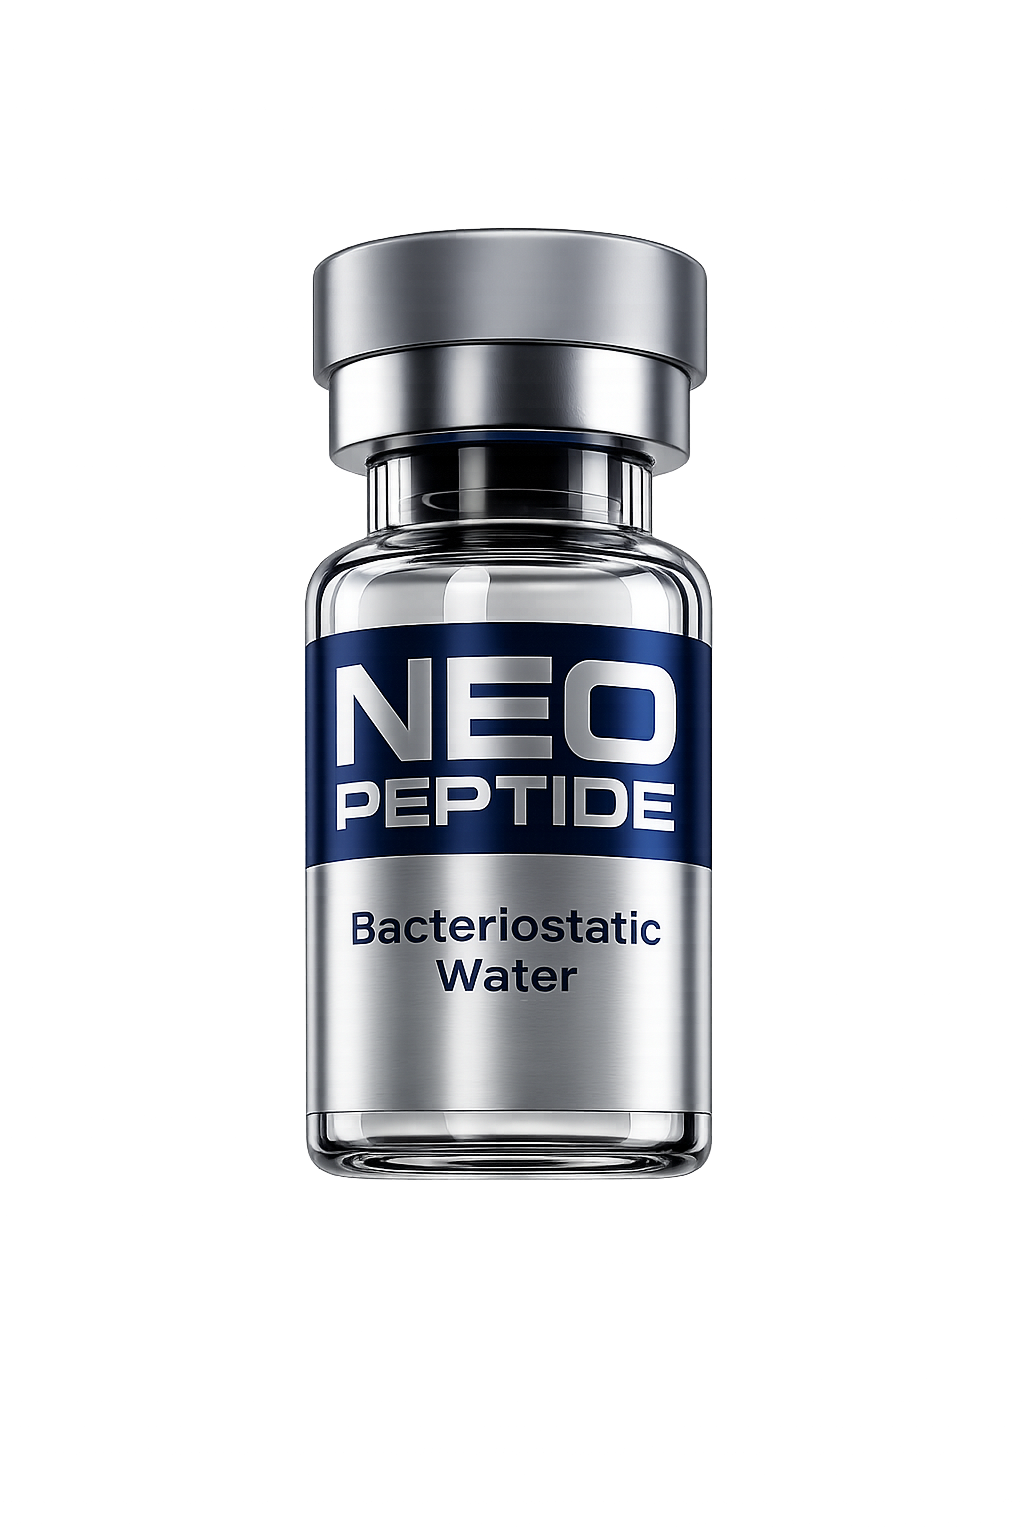
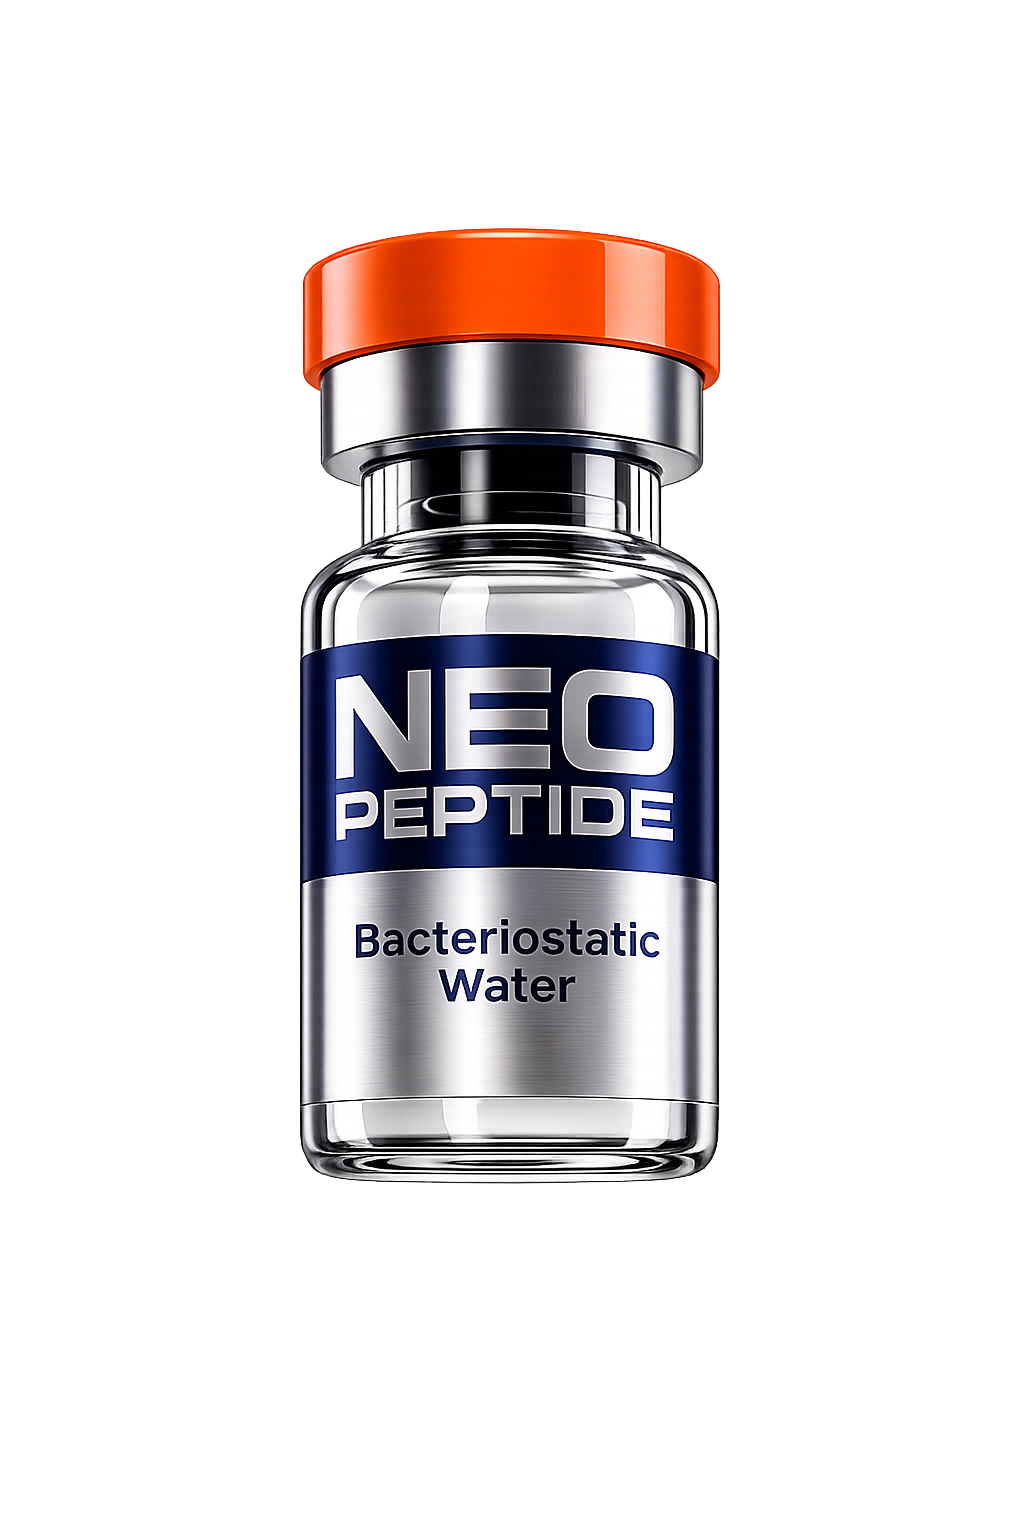
Add Sexual Wellness section, update colors, and add new products
- Darken Hormone/GH red gradient
- Change Essentials from gray to orange
- Add new Sexual Wellness / Libido section (PT-141, $59)
- Add Pinealon 10mg ($50) and Semax 10mg ($59) to Neuro/Mood
- Replace Bacteriostatic Water image with transparent background version
- Add PT-141, Pinealon, Semax bottle images
- Reflect all changes in catalog.html

Changed region(s): [[0.2812, 0.125, 0.7188, 0.7812]]

diff --git a/index.html b/index.html
@@ -117,11 +117,12 @@
     .prog-card:hover{transform:translateY(-5px);box-shadow:0 32px 72px rgba(0,0,0,.22)}
     .prog-card.glp1      {background:radial-gradient(ellipse at 72% 42%,#B0DCC0 0%,#4A9E6A 35%,#1A5A38 100%)}
     .prog-card.longevity {background:radial-gradient(ellipse at 72% 42%,#A4CCEE 0%,#3E7CC0 35%,#1A3878 100%)}
-    .prog-card.testosterone{background:radial-gradient(ellipse at 72% 42%,#ECA8A8 0%,#C25050 35%,#7A1A1A 100%)}
+    .prog-card.testosterone{background:radial-gradient(ellipse at 72% 42%,#C85858 0%,#880E0E 35%,#3E0606 100%)}
     .prog-card.microdose {background:radial-gradient(ellipse at 72% 42%,#ECD4A0 0%,#C09040 35%,#7A4E18 100%)}
     .prog-card.skin     {background:radial-gradient(ellipse at 72% 42%,#F5BDD2 0%,#D86A9B 35%,#8C2F58 100%)}
     .prog-card.neuro    {background:radial-gradient(ellipse at 72% 42%,#C9B4F4 0%,#7A58C8 35%,#3D236F 100%)}
-    .prog-card.essentials{background:radial-gradient(ellipse at 72% 42%,#D8DCE2 0%,#7C858F 35%,#303641 100%)}
+    .prog-card.essentials{background:radial-gradient(ellipse at 72% 42%,#FFD4A0 0%,#D86010 35%,#782808 100%)}
+    .prog-card.sexual   {background:radial-gradient(ellipse at 72% 42%,#FF7090 0%,#C0103A 35%,#640018 100%)}
     .prog-card-bottle{position:absolute;right:-2%;bottom:0;top:-10%;width:50%;height:118%;object-fit:contain;object-position:center bottom;filter:drop-shadow(-10px 10px 28px rgba(0,0,0,.28));transition:transform .4s cubic-bezier(.34,1.1,.64,1);z-index:1}
     .prog-card:hover .prog-card-bottle{transform:scale(1.06) translateY(-8px)}
     .prog-card-overlay{position:absolute;inset:0;background:linear-gradient(to top,rgba(0,0,0,.6) 0%,rgba(0,0,0,.12) 40%,transparent 68%);z-index:2}
@@ -468,7 +469,8 @@
     .cat-section-header.microdose   {background:radial-gradient(135deg,#ECD4A0 0%,#7A4E18 100%)}
     .cat-section-header.skin        {background:radial-gradient(135deg,#F5BDD2 0%,#8C2F58 100%)}
     .cat-section-header.neuro       {background:radial-gradient(135deg,#C9B4F4 0%,#3D236F 100%)}
-    .cat-section-header.essentials  {background:radial-gradient(135deg,#D8DCE2 0%,#303641 100%)}
+    .cat-section-header.essentials  {background:radial-gradient(135deg,#FFCF9A 0%,#782808 100%)}
+    .cat-section-header.sexual      {background:radial-gradient(135deg,#FF8CAA 0%,#640018 100%)}
     .cat-cap-dot{width:22px;height:22px;border-radius:50%;flex-shrink:0}
     .cat-section-info h3{font-family:'Plus Jakarta Sans',sans-serif;font-size:clamp(15px,2vw,20px);font-weight:800;letter-spacing:-.02em;margin-bottom:3px}
     .cat-section-info p{font-size:12px;opacity:.7}
@@ -653,7 +655,7 @@
         <p class="section-label reveal">Our Programs</p>
         <h2 class="section-h2 reveal split-reveal" style="--split-base-delay:.08s">A peptide program<br>that works for you.</h2>
       </div>
-      <p class="section-sub reveal" style="transition-delay:.15s">Seven targeted programs designed around specific goals — each with pharmaceutical-grade compounds and a Certificate of Analysis.</p>
+      <p class="section-sub reveal" style="transition-delay:.15s">Eight targeted programs designed around specific goals — each with pharmaceutical-grade compounds and a Certificate of Analysis.</p>
     </div>
     <div class="programs-grid">
 
@@ -741,6 +743,19 @@
         <div class="prog-card-content">
           <div class="prog-card-name">ESSENTIALS</div>
           <div class="prog-card-promise">Core support · Research supplies · Protocol basics</div>
+          <div class="prog-card-cta">
+            Learn More
+            <div class="prog-card-arrow"><svg width="13" height="13" viewBox="0 0 24 24" fill="none" stroke="currentColor" stroke-width="2.5" stroke-linecap="round" stroke-linejoin="round"><path d="M5 12h14M12 5l7 7-7 7"/></svg></div>
+          </div>
+        </div>
+      </div>
+
+      <div class="prog-card sexual reveal" style="transition-delay:.56s" onclick="showProgram('sexual')">
+        <img class="prog-card-bottle" src="fotos/bottles/produtos%20bottle%20/PT-141.png" alt="">
+        <div class="prog-card-overlay"></div>
+        <div class="prog-card-content">
+          <div class="prog-card-name">SEXUAL WELLNESS / LIBIDO</div>
+          <div class="prog-card-promise">Desire · Arousal · Sexual function · Intimacy support</div>
           <div class="prog-card-cta">
             Learn More
             <div class="prog-card-arrow"><svg width="13" height="13" viewBox="0 0 24 24" fill="none" stroke="currentColor" stroke-width="2.5" stroke-linecap="round" stroke-linejoin="round"><path d="M5 12h14M12 5l7 7-7 7"/></svg></div>
@@ -851,6 +866,7 @@
           <li><a onclick="showProgram('skin')">Skin &amp; Beauty</a></li>
           <li><a onclick="showProgram('neuro')">Neuro / Mood</a></li>
           <li><a onclick="showProgram('essentials')">Essentials</a></li>
+          <li><a onclick="showProgram('sexual')">Sexual Wellness / Libido</a></li>
         </ul>
       </div>
       <div class="footer-col">
@@ -1366,7 +1382,9 @@ const PROGRAMS = {
     bgClass: 'neuro',
     bannerImg: pImg('Selank'),
     products: [
-      { name:'Selank', sub:'ANXIOLYTIC PEPTIDE', img:pImg('Selank'), doses:[{l:'5mg',p:32.90}] },
+      { name:'Selank',   sub:'ANXIOLYTIC PEPTIDE',        img:pImg('Selank'),   doses:[{l:'5mg',p:32.90}] },
+      { name:'Pinealon', sub:'NEUROPROTECTIVE PEPTIDE',   img:pImg('Pinealon'), doses:[{l:'10mg',p:50}] },
+      { name:'Semax',    sub:'NOOTROPIC PEPTIDE ANALOGUE',img:pImg('Semax'),    doses:[{l:'10mg',p:59}] },
     ]
   },
   essentials: {
@@ -1381,6 +1399,19 @@ const PROGRAMS = {
     products: [
       { name:'Bacteriostatic Water', sub:'RECONSTITUTION SOLUTION', img:pImg('Bacteriostatic Water'), doses:[{l:'10ml',p:10},{l:'30ml',p:20}] },
     ]
+  },
+  sexual: {
+    id: 'sexual',
+    name: 'SEXUAL WELLNESS / LIBIDO',
+    eyebrow: 'Sexual Wellness / Libido Program',
+    headline: 'Restore desire.<br>Enhance intimacy.',
+    text: 'PT-141 (Bremelanotide) activates melanocortin receptors in the brain to support sexual arousal and desire in both men and women — a centrally acting approach to libido and sexual function research.',
+    pills: ['Libido','Desire','Sexual Function','Arousal'],
+    bgClass: 'sexual',
+    bannerImg: pImg('PT-141'),
+    products: [
+      { name:'PT-141', sub:'MELANOCORTIN RECEPTOR AGONIST', img:pImg('PT-141'), doses:[{l:'10mg',p:59}] },
+    ]
   }
 };
 
@@ -1394,7 +1425,8 @@ const _CAT_COLORS = {
   microdose:    { dot:'#C09040', label:'Performance &amp; Recovery',sub:'Tissue repair, stamina &amp; recovery peptide blends' },
   skin:         { dot:'#D86A9B', label:'Skin &amp; Beauty',        sub:'Collagen synthesis, skin barrier &amp; repair peptides' },
   neuro:        { dot:'#7A58C8', label:'Neuro / Mood',             sub:'Cognitive support, focus &amp; anxiolytic peptides' },
-  essentials:   { dot:'#8A8FA0', label:'Essentials',               sub:'Reconstitution solutions &amp; core research supplies' },
+  essentials:   { dot:'#D86010', label:'Essentials',               sub:'Reconstitution solutions &amp; core research supplies' },
+  sexual:       { dot:'#C0103A', label:'Sexual Wellness / Libido', sub:'Melanocortin agonists &amp; libido support peptides' },
 };
 
 function renderCatalog() {
@@ -1467,11 +1499,12 @@ function showProgram(id, push = true) {
   const bannerBg = {
     glp1:        'linear-gradient(180deg,#F2FBF5 0%,#A4D8B8 55%,#5A9E7A 100%)',
     longevity:   'linear-gradient(180deg,#EDF6FD 0%,#9EC8EE 55%,#4080C0 100%)',
-    testosterone:'linear-gradient(180deg,#FDF5F5 0%,#E8AAAA 55%,#BC5555 100%)',
+    testosterone:'linear-gradient(180deg,#FDF0F0 0%,#CC7070 55%,#7A1010 100%)',
     microdose:   'linear-gradient(180deg,#FCF8EE 0%,#DEBB95 55%,#A87848 100%)',
     skin:        'linear-gradient(180deg,#FFF3F8 0%,#F2A9C6 55%,#D45B8F 100%)',
     neuro:       'linear-gradient(180deg,#F5F0FF 0%,#C8B4F0 55%,#7653C4 100%)',
-    essentials:  'linear-gradient(180deg,#F7F8FA 0%,#C7CDD5 55%,#6F7884 100%)',
+    essentials:  'linear-gradient(180deg,#FFF8EE 0%,#FFBF70 55%,#C05010 100%)',
+    sexual:      'linear-gradient(180deg,#FFF0F4 0%,#F498B8 55%,#A81030 100%)',
   };
 
   document.getElementById('pvBannerInner').style.background = bannerBg[id];
@@ -1590,17 +1623,21 @@ const PRODUCT_DESCS = {
   'Glow Blend':                  'Proprietary peptide blend for research on collagen synthesis, skin barrier function, and photoprotection.',
   'GHK-Cu':                      'Copper tripeptide complex for research on collagen remodeling, wound healing, and antioxidant activity.',
   'Selank':                      'Anxiolytic peptide analogue for research on GABA-A modulation, stress response, and cognitive performance.',
+  'Pinealon':                    'Tripeptide derived from the pineal gland for research on neuroprotection, circadian rhythm regulation, and cognitive longevity.',
+  'Semax':                       'Synthetic ACTH analogue nootropic peptide for research on cognitive enhancement, memory consolidation, and neuroprotection.',
   'Bacteriostatic Water':        '0.9% benzyl alcohol preserved water for peptide reconstitution and research compound preparation.',
+  'PT-141':                      'Bremelanotide melanocortin receptor agonist for research on central sexual arousal pathways, libido, and sexual function in both male and female models.',
 };
 
 const _pdmGrads = {
   glp1:        'radial-gradient(ellipse at 50% 55%,#fff 0%,#C8EDD8 48%,#3A8060 100%)',
   longevity:   'radial-gradient(ellipse at 50% 55%,#fff 0%,#BCDAF0 48%,#2A60A0 100%)',
-  testosterone:'radial-gradient(ellipse at 50% 55%,#fff 0%,#EEC0C0 48%,#A03030 100%)',
+  testosterone:'radial-gradient(ellipse at 50% 55%,#fff 0%,#D09090 48%,#700808 100%)',
   microdose:   'radial-gradient(ellipse at 50% 55%,#fff 0%,#E8CFA8 48%,#885828 100%)',
   skin:        'radial-gradient(ellipse at 50% 55%,#fff 0%,#F7C4D8 48%,#B83878 100%)',
   neuro:       'radial-gradient(ellipse at 50% 55%,#fff 0%,#D8C8F8 48%,#5833A4 100%)',
-  essentials:  'radial-gradient(ellipse at 50% 55%,#fff 0%,#D0D5DB 48%,#505860 100%)',
+  essentials:  'radial-gradient(ellipse at 50% 55%,#fff 0%,#FFCC90 48%,#B84808 100%)',
+  sexual:      'radial-gradient(ellipse at 50% 55%,#fff 0%,#F0A8C0 48%,#880828 100%)',
 };
 
 function openPDM(idx) {

diff --git a/catalog.html b/catalog.html
@@ -65,19 +65,21 @@
     .section-header{display:flex;align-items:center;gap:16px;margin-bottom:32px;padding:28px 32px;border-radius:20px;color:#fff}
     .section-header.green  {background:radial-gradient(135deg,#B0DCC0 0%,#2E7D52 100%)}
     .section-header.blue   {background:radial-gradient(135deg,#A4CCEE 0%,#1A3878 100%)}
-    .section-header.red    {background:radial-gradient(135deg,#ECA8A8 0%,#7A1A1A 100%)}
+    .section-header.red    {background:radial-gradient(135deg,#C85858 0%,#3E0606 100%)}
     .section-header.gold   {background:radial-gradient(135deg,#ECD4A0 0%,#7A4E18 100%)}
     .section-header.pink   {background:radial-gradient(135deg,#F5BDD2 0%,#8C2F58 100%)}
     .section-header.purple {background:radial-gradient(135deg,#C9B4F4 0%,#3D236F 100%)}
-    .section-header.silver {background:radial-gradient(135deg,#D8DCE2 0%,#303641 100%)}
+    .section-header.silver {background:radial-gradient(135deg,#FFCF9A 0%,#782808 100%)}
+    .section-header.crimson{background:radial-gradient(135deg,#FF8CAA 0%,#640018 100%)}
     .section-cap-dot{width:28px;height:28px;border-radius:50%;border:3px solid rgba(255,255,255,.6);flex-shrink:0}
     .cap-green  {background:#3EAD62}
     .cap-blue   {background:#2C6CB0}
-    .cap-red    {background:#C03030}
+    .cap-red    {background:#880E0E}
     .cap-gold   {background:#C09040}
     .cap-pink   {background:#D86A9B}
     .cap-purple {background:#7A58C8}
-    .cap-silver {background:#8A8FA0}
+    .cap-silver {background:#D86010}
+    .cap-crimson{background:#C0103A}
     .section-header-text h2{font-size:clamp(18px,2.2vw,26px);font-weight:800;letter-spacing:-.02em;margin-bottom:4px}
     .section-header-text p{font-size:13px;opacity:.72}
 
@@ -172,7 +174,8 @@
   <button class="color-nav-btn" onclick="document.getElementById('gold').scrollIntoView({behavior:'smooth'})"><span class="color-dot cap-gold"></span>Gold — Recovery</button>
   <button class="color-nav-btn" onclick="document.getElementById('pink').scrollIntoView({behavior:'smooth'})"><span class="color-dot cap-pink"></span>Pink — Skin & Beauty</button>
   <button class="color-nav-btn" onclick="document.getElementById('purple').scrollIntoView({behavior:'smooth'})"><span class="color-dot cap-purple"></span>Purple — Neuro</button>
-  <button class="color-nav-btn" onclick="document.getElementById('silver').scrollIntoView({behavior:'smooth'})"><span class="color-dot cap-silver"></span>Silver — Essentials</button>
+  <button class="color-nav-btn" onclick="document.getElementById('silver').scrollIntoView({behavior:'smooth'})"><span class="color-dot cap-silver"></span>Orange — Essentials</button>
+  <button class="color-nav-btn" onclick="document.getElementById('crimson').scrollIntoView({behavior:'smooth'})"><span class="color-dot cap-crimson"></span>Crimson — Sexual Wellness</button>
 </nav>
 
 <!-- ══ GREEN — FAT LOSS / GLP ══ -->
@@ -253,17 +256,30 @@
   <div class="products-grid" id="grid-purple"></div>
 </section>
 
-<!-- ══ SILVER — ESSENTIALS ══ -->
+<!-- ══ SILVER/ORANGE — ESSENTIALS ══ -->
 <section class="catalog-section" id="silver">
   <div class="section-anchor"></div>
   <div class="section-header silver">
     <span class="section-cap-dot cap-silver"></span>
     <div class="section-header-text">
-      <h2>Silver Cap — Essentials</h2>
+      <h2>Orange Cap — Essentials</h2>
       <p>Reconstitution solutions &amp; core research supplies</p>
     </div>
   </div>
   <div class="products-grid" id="grid-silver"></div>
+</section>
+
+<!-- ══ CRIMSON — SEXUAL WELLNESS / LIBIDO ══ -->
+<section class="catalog-section" id="crimson">
+  <div class="section-anchor"></div>
+  <div class="section-header crimson">
+    <span class="section-cap-dot cap-crimson"></span>
+    <div class="section-header-text">
+      <h2>Crimson Cap — Sexual Wellness / Libido</h2>
+      <p>Melanocortin agonists &amp; libido support peptides</p>
+    </div>
+  </div>
+  <div class="products-grid" id="grid-crimson"></div>
 </section>
 
 <footer>
@@ -346,13 +362,21 @@ const COLOR_GROUPS = [
   {
     id: 'purple',
     products: [
-      { name:'Selank', sub:'ANXIOLYTIC PEPTIDE', img:pImg('Selank'), doses:[{l:'5mg',p:32.90}] },
+      { name:'Selank',   sub:'ANXIOLYTIC PEPTIDE',         img:pImg('Selank'),   doses:[{l:'5mg',p:32.90}] },
+      { name:'Pinealon', sub:'NEUROPROTECTIVE PEPTIDE',    img:pImg('Pinealon'), doses:[{l:'10mg',p:50}] },
+      { name:'Semax',    sub:'NOOTROPIC PEPTIDE ANALOGUE', img:pImg('Semax'),    doses:[{l:'10mg',p:59}] },
     ]
   },
   {
     id: 'silver',
     products: [
       { name:'Bacteriostatic Water', sub:'RECONSTITUTION SOLUTION', img:pImg('Bacteriostatic Water'), doses:[{l:'10ml',p:10},{l:'30ml',p:20}] },
+    ]
+  },
+  {
+    id: 'crimson',
+    products: [
+      { name:'PT-141', sub:'MELANOCORTIN RECEPTOR AGONIST', img:pImg('PT-141'), doses:[{l:'10mg',p:59}] },
     ]
   }
 ];
